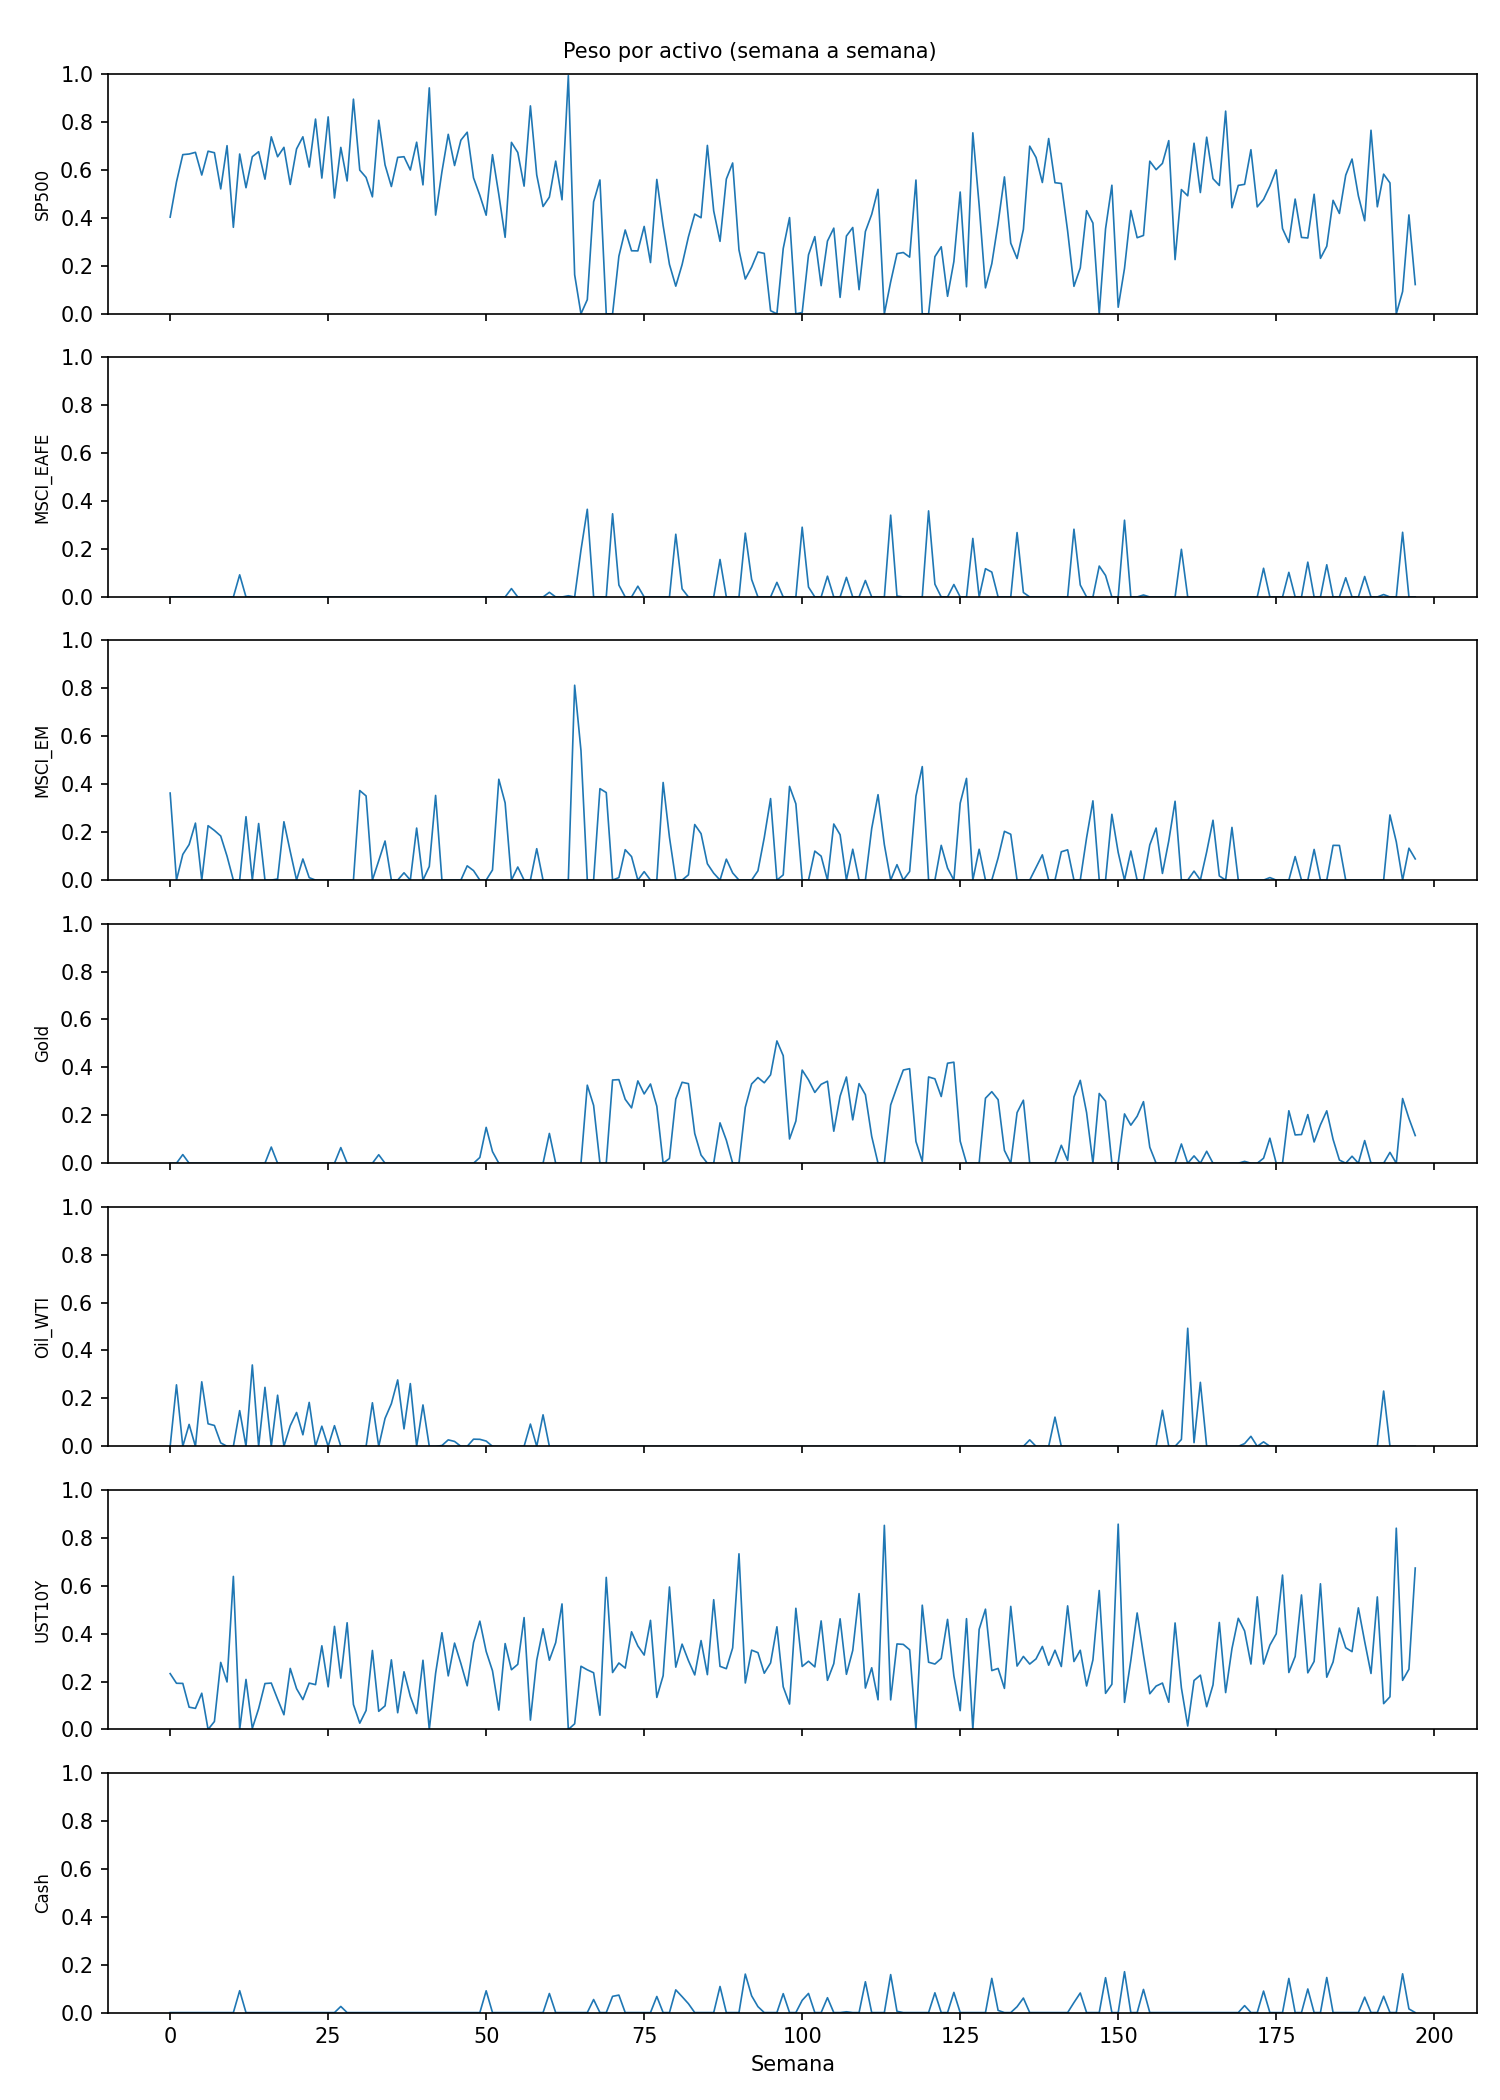
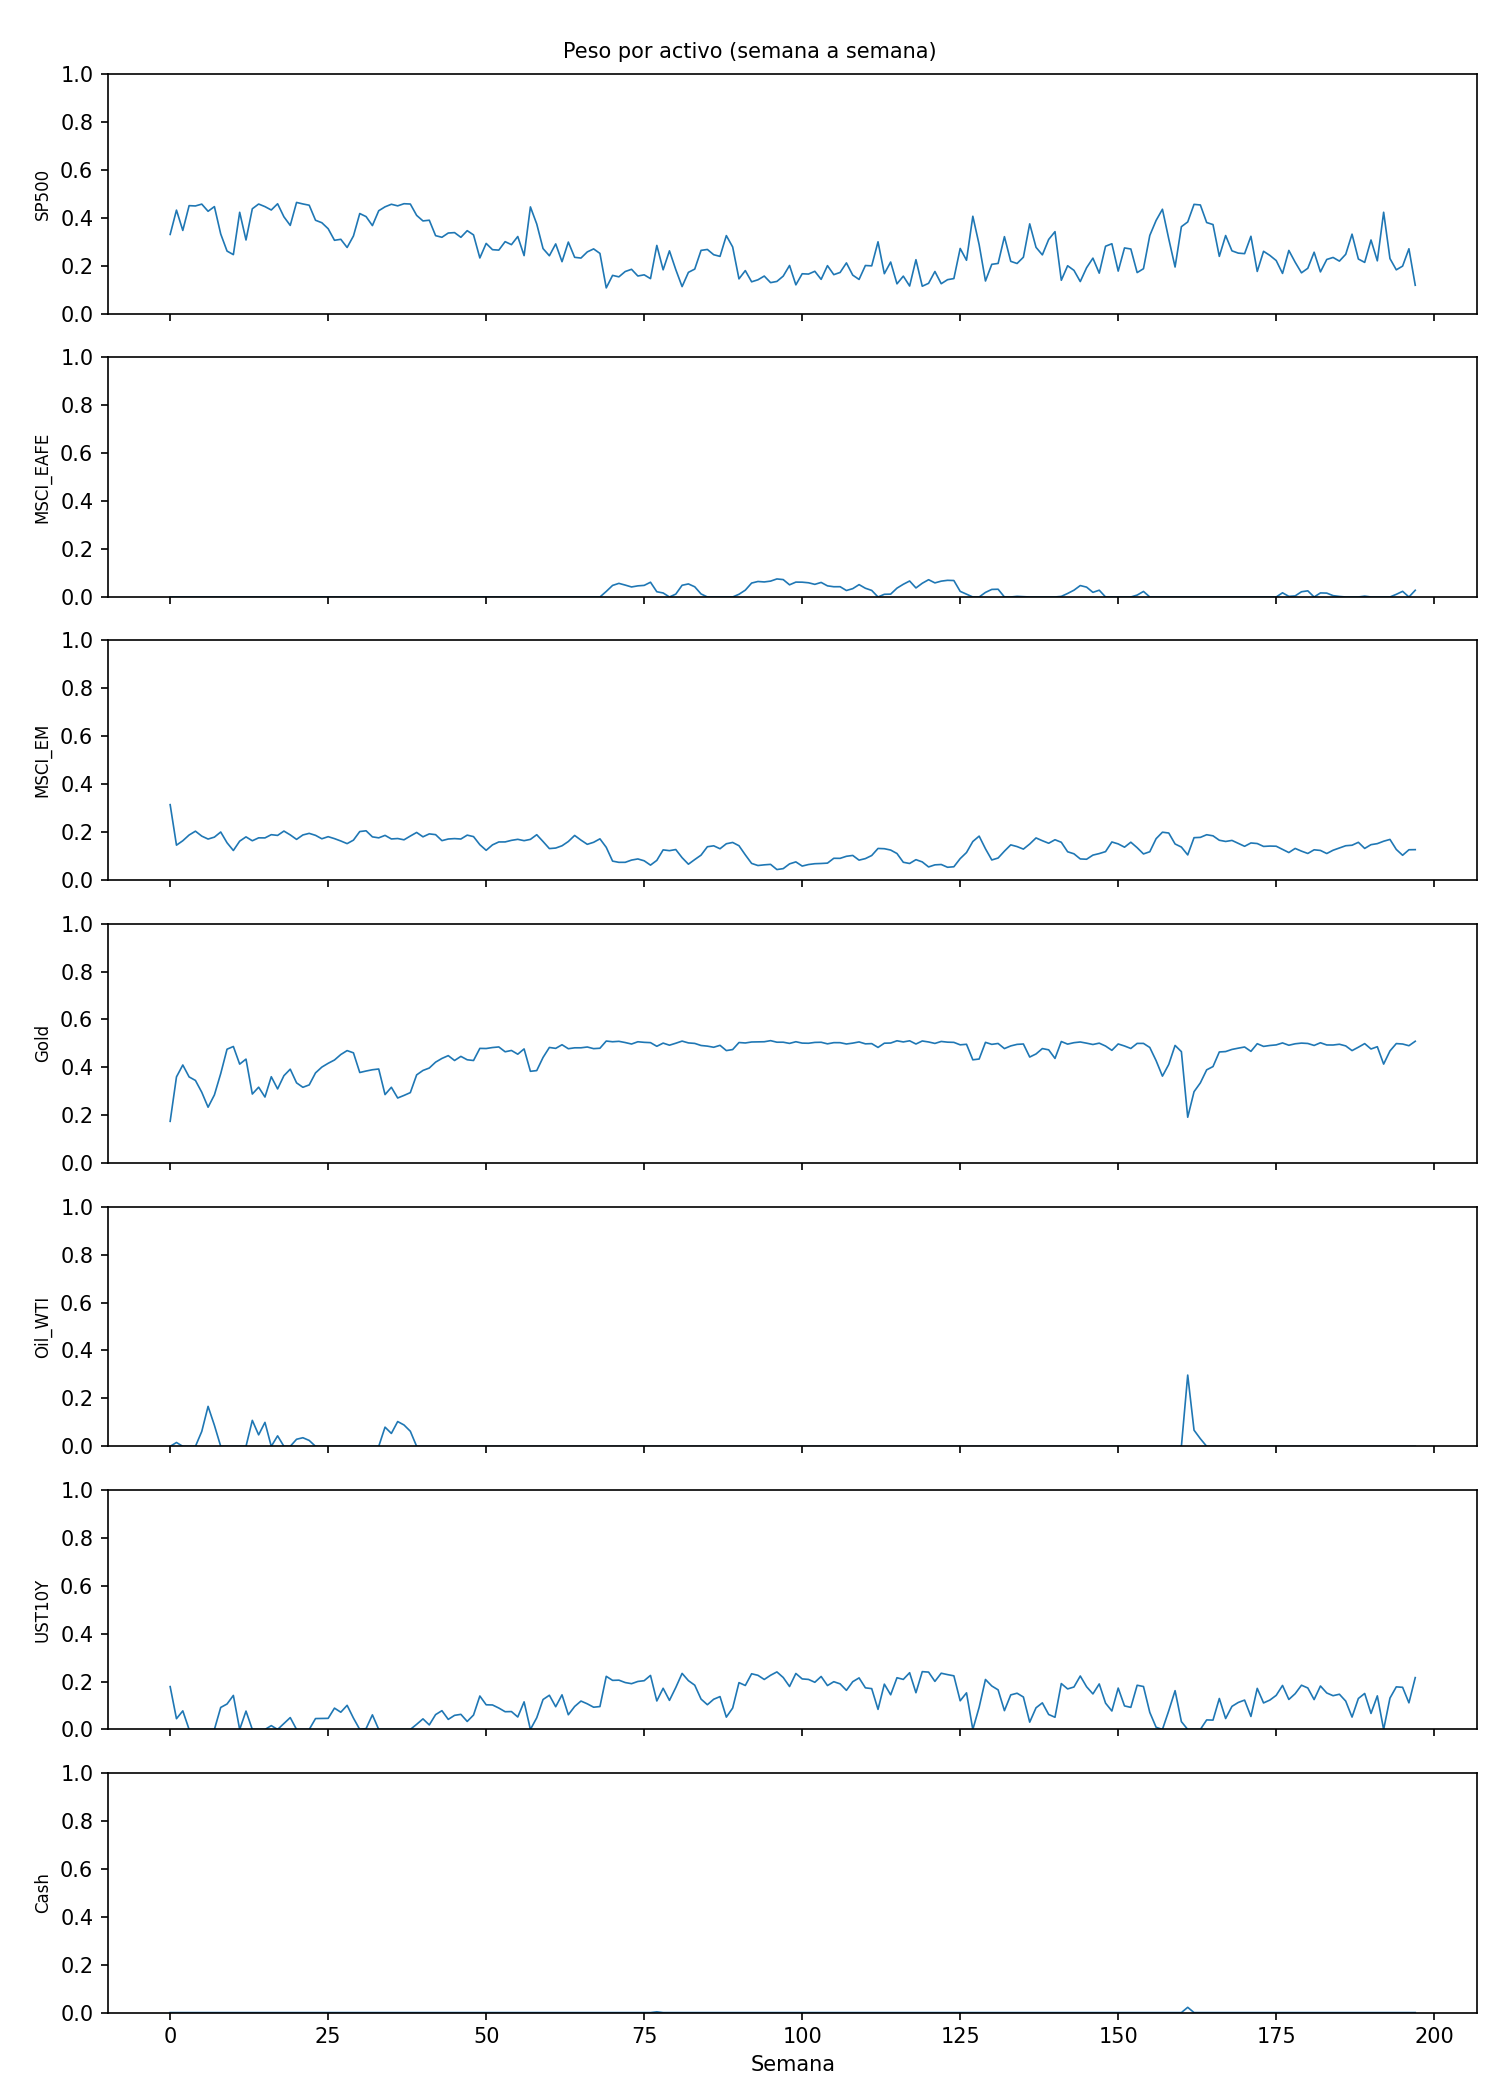
Implementación del Agente PPO con IPM, seed y creación fichero evaluation

diff --git a/RL/train_PPO_agent.py b/RL/train_PPO_agent.py
@@ -56,9 +56,10 @@ def evaluate_and_plot(model, env, freq=52, var_conf=0.95, out_path=None):
         action, _ = model.predict(obs, deterministic=True)
         weights_hist.append(action_to_weights(action).copy())
 
-        obs, reward, terminated, truncated, _ = env.step(action)
-        log_returns.append(float(reward))
-        equity.append(equity[-1] * np.exp(float(reward)))
+        obs, _, terminated, truncated, info = env.step(action)
+        port_ret = float(info["portfolio_log_ret"])
+        log_returns.append(port_ret)
+        equity.append(equity[-1] * np.exp(port_ret))
         done = terminated or truncated
 
     log_returns  = np.asarray(log_returns)
@@ -136,7 +137,7 @@ def main():
     set_seed(0)
 
     ipm = IPMModule(m=18)
-    env = PortfolioEnvIPM(data, ipm_module=ipm, debug=False, episode_weeks=52)
+    env = PortfolioEnvIPM(data, ipm_module=ipm, debug=False, episode_weeks=52, reward_scale=100)
 
     agent = PPOAgent(env, seed=0)
     agent.train(total_timesteps=500_000)

diff --git a/RL/Environment/environment_IPM.py b/RL/Environment/environment_IPM.py
@@ -22,7 +22,7 @@ import matplotlib.pyplot as plt
 from IPM.ipm import IPMModule
 
 class PortfolioEnv(gym.Env):
-    def __init__(self, data, transaction_cost: float = 0.001, ipm_module=None, debug=False, debug_every=200, window_size=5, rebalance_freq=5, episode_weeks=52):
+    def __init__(self, data, transaction_cost: float = 0.001, ipm_module=None, debug=False, debug_every=200, window_size=5, rebalance_freq=5, episode_weeks=52, reward_scale=1.0):
         super(PortfolioEnv, self).__init__()
         self.data = data
         self.tc   = transaction_cost
@@ -31,6 +31,7 @@ class PortfolioEnv(gym.Env):
         self.debug = debug
         self.debug_every = debug_every
         self._debug_buf = []
+        self.reward_scale = reward_scale
         self.current_step = 0
         self.num_assets = 6  # 6 assets + cash
         self.window_size = window_size
@@ -98,7 +99,7 @@ class PortfolioEnv(gym.Env):
             self.current_step += 1
 
         self.weights = w
-        reward = 10 * total_log_ret - self.tc * turnover
+        reward = self.reward_scale * total_log_ret - self.tc * turnover
 
         if self.debug and (len(self._debug_buf) % self.debug_every == 0):
             self._debug_buf.append({
@@ -109,7 +110,7 @@ class PortfolioEnv(gym.Env):
 
         terminated = self.current_step >= self.episode_end
         obs = self._get_observation(step=self.current_step - 1)
-        return obs, reward, terminated, False, {}
+        return obs, reward, terminated, False, {"portfolio_log_ret": total_log_ret}
     
     def _action_to_weights(self, action):
         x = np.maximum(action, 0.0)   # ReLU: negativos → 0 exacto

diff --git a/RL/PPO/agent.py b/RL/PPO/agent.py
@@ -26,7 +26,7 @@ class ETACallback(BaseCallback):
 
 
 class PPOAgent:
-    def __init__(self, env, seed=0):
+    def __init__(self, env, seed=None):
         self.env = env
         self.model = PPO(
             'MlpPolicy', env, seed=seed, verbose=1, device='cpu',